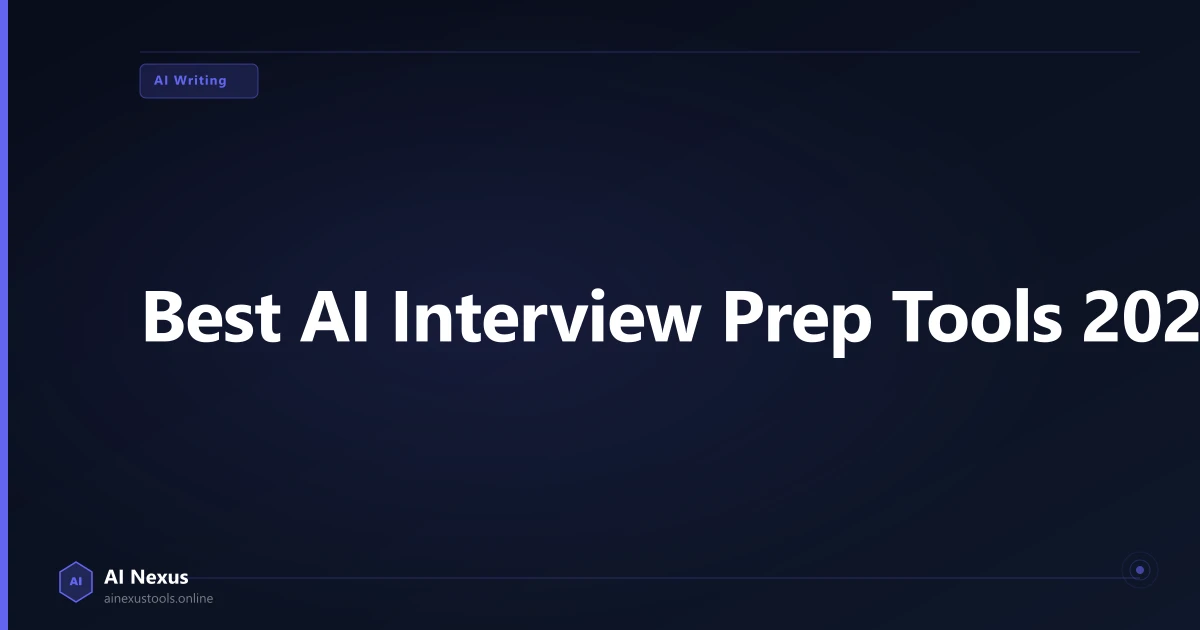
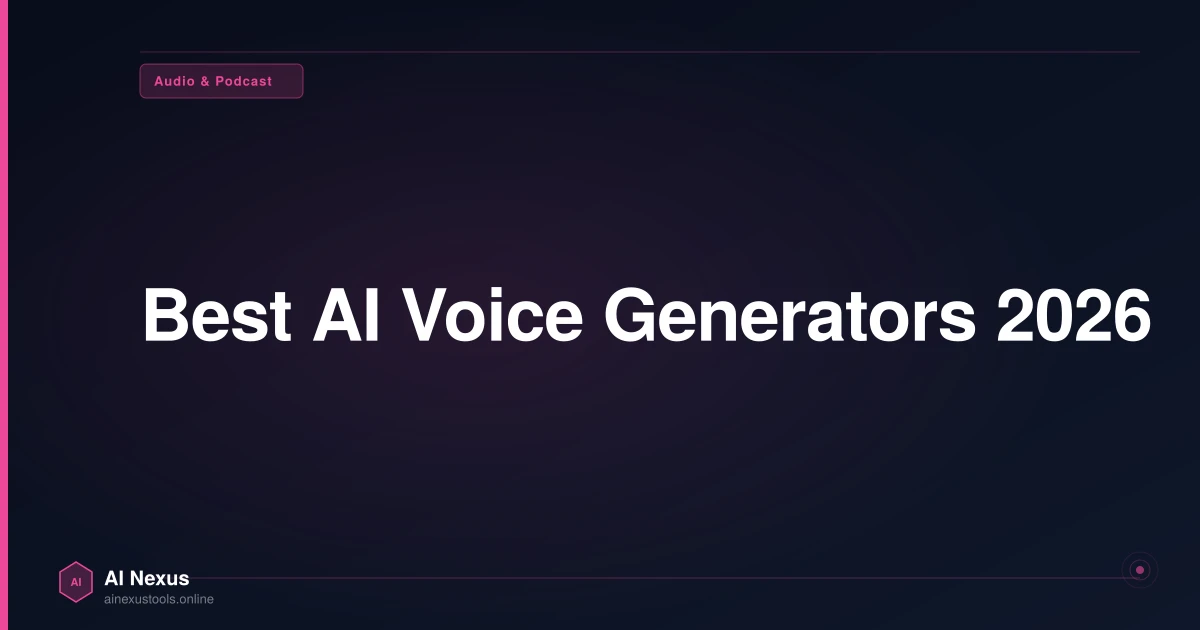
update

Changed region(s): [[0.1233, 0.4524, 1.0, 0.573], [0.0, 0.0, 0.185, 1.0], [0.0925, 0.0905, 0.2775, 0.181]]

diff --git a/blog/best-text-to-speech-software-2026.ts b/blog/best-text-to-speech-software-2026.ts
@@ -1,0 +1,280 @@
+// blog/best-text-to-speech-software-2026.ts
+// Target keyword: "best text to speech software" — second traffic pillar for the AI Voice / TTS cluster
+// Secondary keywords: "best ai text to speech", "best tts software", "realistic text to speech",
+//   "tts voice generator"
+// Internal links: /best-ai-audio-tools/, /blog/best-ai-voice-generators-2026/, /tools/elevenlabs/,
+//   /tools/murf-ai/, /tools/podcastle/, /tools/descript/, /compare/murf-ai-vs-elevenlabs/
+// Affiliate: ElevenLabs (try.elevenlabs.io/earuakibkmz9), Murf AI (get.murf.ai/ilypoqhxvxsj),
+//   Podcastle (podcastle.ai/?ref=ymi1ntf), Descript (descript.com?via=ainexus) — from lib/affiliate-links.ts
+import { BlogPost } from './types';
+import { Category } from './types';
+
+const post: BlogPost = {
+  slug: 'best-text-to-speech-software-2026',
+  title: 'Best Text-to-Speech Software 2026: 5 Tools Tested on API, Languages & Price',
+  seoTitle: 'Best Text-to-Speech Software 2026: 5 Tools Tested',
+  metaDescription: 'The best text-to-speech software in 2026, tested on API access, language coverage, latency, and real pricing. ElevenLabs, Murf AI, Podcastle & Descript compared.',
+  datePublished: '2026-08-13',
+  dateModified: '2026-08-13',
+  author: 'Navneet Arya',
+  category: Category.AUDIO,
+  readTime: '13 min read',
+  ogImage: 'https://ainexustools.online/og/blog/best-text-to-speech-software-2026.webp',
+  excerpt: 'ElevenLabs is the best text-to-speech software overall, with the strongest API and the widest language coverage. Murf AI is the better pick if commercial video output matters more than raw API access.',
+  quickAnswer: 'The best text-to-speech software in 2026 is ElevenLabs, with 29 languages, a first-class developer API, and low-latency streaming built for real-time apps. Murf AI covers 20 languages and suits commercial video and e-learning output more than raw API work. Podcastle and Descript are built around editing workflows first, with TTS as one feature inside a larger tool. Pick based on whether you need an API, a finished video voiceover, or an editing workflow.',
+  myTake: "I'm Navneet Arya, and for this guide I checked API docs, language-coverage pages, and live pricing directly rather than relying on marketing copy. If your build needs a real API, ElevenLabs is the only tool here with genuinely production-ready endpoints.",
+
+  content: `
+<img src="https://images.unsplash.com/photo-1478737270239-2f02b77fc618?auto=format&fit=crop&w=1200&q=80" alt="Sound waveform visualization representing text-to-speech audio output" style="width:100%;border-radius:12px;margin:0 0 24px;" loading="lazy" />
+
+<p>"Text-to-speech software" and "AI voice generator" get used the same way, but they're not quite the same search. TTS software usually implies something more specific: an API you can build on, or a tool judged on language coverage and latency, not just how good one demo voice sounds.</p>
+
+<p>I'm Navneet Arya, and I checked API docs, language-coverage pages, and current pricing directly for this guide, current as of August 2026.</p>
+
+<p>If you're comparing tools just on voice realism, our <a href="/blog/best-ai-voice-generators-2026/">best AI voice generators guide</a> covers that angle. This one is built around the questions that matter for software, not just voiceovers. Does it have an API? How many languages does it actually support? And what does it cost at real usage volume?</p>
+
+<h2>TL;DR: best text-to-speech software in 30 seconds</h2>
+
+<p>ElevenLabs wins on API access and language breadth, with 29 languages and low-latency streaming for real-time use. Murf AI covers 20 languages and fits commercial video work better than raw API integration. Podcastle and Descript both include TTS as one feature inside a bigger recording or editing tool, not as a standalone product.</p>
+
+<div style="overflow-x:auto;margin:28px 0">
+  <table style="width:100%;border-collapse:collapse;font-size:14px">
+    <thead>
+      <tr style="background:rgba(13,148,136,.08)">
+        <th style="padding:10px 14px;text-align:left;border-bottom:2px solid rgba(13,148,136,.2);font-weight:600">Tool</th>
+        <th style="padding:10px 14px;text-align:left;border-bottom:2px solid rgba(13,148,136,.2);font-weight:600">Languages</th>
+        <th style="padding:10px 14px;text-align:left;border-bottom:2px solid rgba(13,148,136,.2);font-weight:600">API access</th>
+        <th style="padding:10px 14px;text-align:left;border-bottom:2px solid rgba(13,148,136,.2);font-weight:600">Starting price</th>
+        <th style="padding:10px 14px;text-align:left;border-bottom:2px solid rgba(13,148,136,.2);font-weight:600">Our rating</th>
+      </tr>
+    </thead>
+    <tbody>
+      <tr style="border-bottom:1px solid rgba(0,0,0,.06)">
+        <td style="padding:10px 14px;font-weight:500">ElevenLabs</td>
+        <td style="padding:10px 14px">29 languages</td>
+        <td style="padding:10px 14px">Yes, first-class</td>
+        <td style="padding:10px 14px">$5/month</td>
+        <td style="padding:10px 14px">⭐ 4.7/5</td>
+      </tr>
+      <tr style="border-bottom:1px solid rgba(0,0,0,.06)">
+        <td style="padding:10px 14px;font-weight:500">Murf AI</td>
+        <td style="padding:10px 14px">20 languages</td>
+        <td style="padding:10px 14px">Yes, limited</td>
+        <td style="padding:10px 14px">$19/month</td>
+        <td style="padding:10px 14px">⭐ 4.5/5</td>
+      </tr>
+      <tr style="border-bottom:1px solid rgba(0,0,0,.06)">
+        <td style="padding:10px 14px;font-weight:500">Podcastle</td>
+        <td style="padding:10px 14px">English-focused</td>
+        <td style="padding:10px 14px">No</td>
+        <td style="padding:10px 14px">$11.99/month</td>
+        <td style="padding:10px 14px">⭐ 4.5/5</td>
+      </tr>
+      <tr style="border-bottom:1px solid rgba(0,0,0,.06)">
+        <td style="padding:10px 14px;font-weight:500">Descript</td>
+        <td style="padding:10px 14px">English-focused</td>
+        <td style="padding:10px 14px">Yes</td>
+        <td style="padding:10px 14px">$12/month</td>
+        <td style="padding:10px 14px">⭐ 4.5/5</td>
+      </tr>
+    </tbody>
+  </table>
+</div>
+
+<h2>What makes text-to-speech software good, not just usable</h2>
+
+<p>Every tool here can turn a sentence into audio. The real gap between them shows up under three conditions. A script written in a second language. A live tool that can't tolerate any delay. And a monthly bill once you're past the free tier.</p>
+
+<img src="https://images.unsplash.com/photo-1590602847861-f357a9332bbc?auto=format&fit=crop&w=1200&q=80" alt="A developer testing an API on a laptop screen" style="width:100%;border-radius:12px;margin:8px 0 24px;" loading="lazy" />
+
+<h3>Language and accent coverage</h3>
+
+<p>ElevenLabs supports 29 languages, the widest coverage in this group. Murf AI covers 20, with very strong Indian English, British, and Australian accent options. Podcastle and Descript are both built mostly for English, which matters if your content needs to reach non-English audiences.</p>
+
+<h3>Latency for real-time use</h3>
+
+<p>If you're building a voice agent or live captioning tool, latency matters more than voice quality alone. ElevenLabs offers a streaming API built for live output, which is why it shows up in voice-agent and IVR products beyond content creation. Murf AI's API exists but is aimed at batch voiceover generation, not live streaming.</p>
+
+<h2>ElevenLabs: best text-to-speech API</h2>
+
+<p>ElevenLabs is the clearest pick for anyone looking at text-to-speech as software, not just a content tool. Its API is truly built for real use, with SDKs, streaming endpoints, and documentation built for developers, not just marketing copy about "API access."</p>
+
+<p>The free plan gives 10,000 characters a month, enough to prototype an integration before committing. Paid plans start at $5/month for 30,000 characters. The Creator tier at $22/month unlocks 100,000 characters and full voice cloning. Trustpilot rates it 4.5 stars from nearly 1,900 reviews.</p>
+
+<p><strong>Best for:</strong> Developers building voice features into a product, and anyone who needs genuine multi-language coverage. See the full breakdown in our <a href="/tools/elevenlabs/">ElevenLabs review</a>, or compare it head-to-head in our <a href="/compare/murf-ai-vs-elevenlabs/">ElevenLabs vs Murf AI comparison</a>.</p>
+
+<div style="margin:14px 0 24px;">
+  <a href="https://try.elevenlabs.io/earuakibkmz9" target="_blank" rel="sponsored nofollow noopener noreferrer" style="display:inline-block;background:linear-gradient(135deg,#0D9488,#0f766e);color:#fff;padding:10px 14px;margin:6px 8px 0 0;border-radius:10px;font-weight:700;font-size:13px;text-decoration:none;">Try ElevenLabs Free →</a>
+</div>
+<p style="font-size:12px;color:var(--text-muted,#888);margin-top:-12px">
+  <a href="/disclosure/">Affiliate disclosure</a> — we may earn a commission at no extra cost to you.
+</p>
+
+<h2>Murf AI: best for commercial voiceover output</h2>
+
+<p>Murf AI treats text-to-speech as one step in a finished production, not the whole product. Its script-to-video sync feature times a generated voiceover to an existing video timeline on its own, which saves real editing time on commercial work.</p>
+
+<img src="https://images.unsplash.com/photo-1626544827763-d516dce335e2?auto=format&fit=crop&w=1200&q=80" alt="A voiceover script being edited alongside a video timeline" style="width:100%;border-radius:12px;margin:8px 0 24px;" loading="lazy" />
+
+<p>Its voice library spans 120+ voices across 20 languages. The free plan includes 10 minutes of voiceover monthly, and paid plans start at $19/month.</p>
+
+<p>Murf does offer an API, but it's built for batch voiceover generation rather than live use. Trustpilot rates it 4.4 stars from 428 reviews, and G2 gives it 4.6 from 321 reviews.</p>
+
+<p><strong>Best for:</strong> Teams producing finished video or e-learning content who need a voiceover synced to existing footage. Full details are in our <a href="/tools/murf-ai/">Murf AI review</a>.</p>
+
+<div style="margin:14px 0 24px;">
+  <a href="https://get.murf.ai/ilypoqhxvxsj" target="_blank" rel="sponsored nofollow noopener noreferrer" style="display:inline-block;background:linear-gradient(135deg,#0D9488,#0f766e);color:#fff;padding:10px 14px;margin:6px 8px 0 0;border-radius:10px;font-weight:700;font-size:13px;text-decoration:none;">Try Murf AI Free →</a>
+</div>
+
+<h2>Podcastle: TTS as one feature in a recording tool</h2>
+
+<p>Podcastle isn't primarily a text-to-speech tool. Its core product is podcast recording, and AI voice generation sits alongside that as a supporting feature rather than the main draw.</p>
+
+<p>Its Revoice feature can redo a flubbed line in your own AI-modeled voice, without a full re-recording. The free plan gives 3 recordings a month with 10 hours of Magic Dust noise cleanup.</p>
+
+<p>Paid plans start at $11.99/month for Storyteller, moving to $23.99/month for Professional, which unlocks Revoice cloning. Trustpilot rates it 4.5 stars from 143 reviews.</p>
+
+<p><strong>Best for:</strong> Podcasters who want light TTS correction bundled into a full recording workflow, not a standalone tool. See our full <a href="/tools/podcastle/">Podcastle review</a> for pricing details.</p>
+
+<div style="margin:14px 0 24px;">
+  <a href="https://podcastle.ai/?ref=ymi1ntf" target="_blank" rel="sponsored nofollow noopener noreferrer" style="display:inline-block;background:linear-gradient(135deg,#0D9488,#0f766e);color:#fff;padding:10px 14px;margin:6px 8px 0 0;border-radius:10px;font-weight:700;font-size:13px;text-decoration:none;">Try Podcastle Free →</a>
+</div>
+
+<h2>Descript: TTS built for text-based editing</h2>
+
+<p>Descript flips the usual TTS workflow. Instead of generating audio from a blank script, it lets you fix an existing recording by editing its transcript. Its Overdub feature speaks the correction in your own cloned voice.</p>
+
+<p>The free plan includes 1 hour of transcription monthly. Paid plans start at $12/month for Hobbyist, moving to $24/month for Creator, which adds unlimited transcription and full Overdub. Descript does expose an API for its editing features. Trustpilot rates it 4.4 stars from 782 reviews, and G2 gives it 4.6 from 564 reviews.</p>
+
+<p><strong>Best for:</strong> Creators who need to fix mistakes in existing audio without a full re-record. Our <a href="/tools/descript/">Descript review</a> covers the full editing workflow.</p>
+
+<div style="margin:14px 0 24px;">
+  <a href="https://descript.com?via=ainexus" target="_blank" rel="sponsored nofollow noopener noreferrer" style="display:inline-block;background:linear-gradient(135deg,#0D9488,#0f766e);color:#fff;padding:10px 14px;margin:6px 8px 0 0;border-radius:10px;font-weight:700;font-size:13px;text-decoration:none;">Try Descript Free →</a>
+</div>
+
+<h2>Best text-to-speech software 2026: full comparison</h2>
+
+<p>Here's how all four line up on the details that matter most for software use: language coverage, API depth, and commercial licensing.</p>
+
+<div style="overflow-x:auto;margin:28px 0">
+  <table style="width:100%;border-collapse:collapse;font-size:14px">
+    <thead>
+      <tr style="background:rgba(13,148,136,.08)">
+        <th style="padding:10px 14px;text-align:left;border-bottom:2px solid rgba(13,148,136,.2);font-weight:600">Feature</th>
+        <th style="padding:10px 14px;text-align:left;border-bottom:2px solid rgba(13,148,136,.2);font-weight:600">ElevenLabs</th>
+        <th style="padding:10px 14px;text-align:left;border-bottom:2px solid rgba(13,148,136,.2);font-weight:600">Murf AI</th>
+        <th style="padding:10px 14px;text-align:left;border-bottom:2px solid rgba(13,148,136,.2);font-weight:600">Podcastle</th>
+        <th style="padding:10px 14px;text-align:left;border-bottom:2px solid rgba(13,148,136,.2);font-weight:600">Descript</th>
+      </tr>
+    </thead>
+    <tbody>
+      <tr style="border-bottom:1px solid rgba(0,0,0,.06)">
+        <td style="padding:10px 14px;font-weight:500">Real-time streaming</td>
+        <td style="padding:10px 14px">Yes</td>
+        <td style="padding:10px 14px">No</td>
+        <td style="padding:10px 14px">No</td>
+        <td style="padding:10px 14px">No</td>
+      </tr>
+      <tr style="border-bottom:1px solid rgba(0,0,0,.06)">
+        <td style="padding:10px 14px;font-weight:500">Voice cloning</td>
+        <td style="padding:10px 14px">Yes, from 1 min</td>
+        <td style="padding:10px 14px">Enterprise only</td>
+        <td style="padding:10px 14px">Yes, Professional tier</td>
+        <td style="padding:10px 14px">Yes, via Overdub</td>
+      </tr>
+      <tr style="border-bottom:1px solid rgba(0,0,0,.06)">
+        <td style="padding:10px 14px;font-weight:500">Commercial license</td>
+        <td style="padding:10px 14px">Paid plans</td>
+        <td style="padding:10px 14px">Paid plans</td>
+        <td style="padding:10px 14px">Paid plans</td>
+        <td style="padding:10px 14px">Paid plans</td>
+      </tr>
+      <tr style="border-bottom:1px solid rgba(0,0,0,.06)">
+        <td style="padding:10px 14px;font-weight:500">Free plan limit</td>
+        <td style="padding:10px 14px">10,000 chars/month</td>
+        <td style="padding:10px 14px">10 min/month</td>
+        <td style="padding:10px 14px">3 recordings/month</td>
+        <td style="padding:10px 14px">1hr transcription/month</td>
+      </tr>
+      <tr style="border-bottom:1px solid rgba(0,0,0,.06)">
+        <td style="padding:10px 14px;font-weight:500">Starting paid price</td>
+        <td style="padding:10px 14px">$5/month</td>
+        <td style="padding:10px 14px">$19/month</td>
+        <td style="padding:10px 14px">$11.99/month</td>
+        <td style="padding:10px 14px">$12/month</td>
+      </tr>
+    </tbody>
+  </table>
+</div>
+
+<img src="https://images.unsplash.com/photo-1611162617213-7d7a39e9b1d7?auto=format&fit=crop&w=1200&q=80" alt="A pricing comparison chart on a screen" style="width:100%;border-radius:12px;margin:8px 0 24px;" loading="lazy" />
+
+<h2>Pricing: what text-to-speech software actually costs at scale</h2>
+
+<p>Free plans work fine for testing. ElevenLabs' 10,000 free characters cover roughly 10 minutes of narration monthly. Once you're producing content weekly, the real cost comparison shifts to per-character and per-minute pricing.</p>
+
+<p>ElevenLabs' $5/month Starter tier and Murf's $19/month plan both stay reasonable for individual creators.</p>
+
+<p>API-heavy use, like a voice feature inside your own product, scales in a different way, so check against ElevenLabs' usage-based API pricing directly before committing. India-based users can pay with standard cards and UPI on all four tools, billed in USD with no separate regional tier.</p>
+
+<h2>Which text-to-speech software fits your use case</h2>
+
+<ol>
+  <li>Building a voice feature into your own app or product: ElevenLabs, for the API and low latency.</li>
+  <li>Producing finished video or e-learning voiceovers: Murf AI, for the script-to-video sync.</li>
+  <li>Fixing mistakes in existing recordings: Descript, for transcript-based editing and Overdub.</li>
+  <li>Recording and lightly cleaning up a podcast: Podcastle, for the bundled recording workflow.</li>
+</ol>
+
+<h2>Pros and cons</h2>
+
+<p>No tool here wins on every axis. Here's the honest trade-off across the category.</p>
+
+<h2>Final verdict: best text-to-speech software in 2026</h2>
+
+<p>If you need software in the literal sense, an API you can build on, ElevenLabs is the clear pick. The language coverage is the widest available, the documentation is truly developer-ready, and the $5/month entry price makes testing low-risk.</p>
+
+<p>If your actual need is finished video voiceovers rather than an API, Murf AI's $19/month plan earns its price through the script-to-video sync alone. And if text-to-speech is really just one feature inside a bigger recording or editing job, Podcastle and Descript are the better fit. Both do more for you than a standalone TTS tool ever could.</p>
+`,
+
+  faqs: [
+    { q: "What is the best text-to-speech software with an API?", a: "ElevenLabs has the most developer-ready API in this category, with SDKs, streaming endpoints, and documentation built for real use, not just a demo. It also offers the lowest latency of the four tools compared here, which matters for live tools like voice agents. Murf AI and Descript both expose APIs too, but Murf's is built for batch voiceover generation rather than live streaming." },
+    { q: "How many languages does ElevenLabs text-to-speech support?", a: "ElevenLabs supports 29 languages, the widest coverage among the tools compared in this guide. Murf AI covers 20 languages, with especially strong Indian English, British, and Australian accent variety. Podcastle and Descript are both built mostly for English, so language breadth is not their strength." },
+    { q: "Is there a free text-to-speech software with commercial rights?", a: "Commercial use generally requires a paid plan across all four tools. ElevenLabs, Murf AI, Podcastle, and Descript each restrict commercial licensing on their free tiers, even though the free tiers are usable for testing. Budget for at least the entry-level paid plan, starting at $5/month with ElevenLabs, before publishing generated audio commercially." },
+    { q: "Which text-to-speech software has the lowest latency?", a: "ElevenLabs offers the lowest latency of the tools in this guide, with a streaming API purpose-built for live output. That is why it shows up in voice-agent and phone-system products, not just content-creation tools. Murf AI, Podcastle, and Descript are all designed around batch processing rather than live streaming, so none match ElevenLabs on speed for real-time use." },
+    { q: "Can text-to-speech software clone a real human voice?", a: "Yes, on several of the tools compared here. ElevenLabs builds a usable voice clone from about one minute of clean audio, with longer samples improving accuracy. Descript's Overdub clones your voice specifically to fix mistakes in existing recordings. Murf AI offers cloning too, but only on its Enterprise plan, which makes it less accessible than ElevenLabs for individual users." },
+    { q: "What is the difference between an AI voice generator and text-to-speech software?", a: "In practice the terms overlap heavily, but text-to-speech software usually implies a more technical use case, an API, batch processing, or language and latency requirements, rather than a single polished voiceover. AI voice generator is the more common consumer search term for the same underlying technology. Our best AI voice generators guide covers the same four tools from a creator-first angle rather than a software-first one." },
+    { q: "Does Murf AI or ElevenLabs have better API pricing?", a: "ElevenLabs publishes clearer usage-based API pricing tied directly to its subscription tiers, starting from the $5/month Starter plan. Murf AI's API access exists but is less central to its product, and is positioned more for batch voiceover generation inside its own platform than as a standalone developer product. For anything API-first, ElevenLabs is the more mature option." },
+    { q: "Is text-to-speech software good enough for audiobooks?", a: "For shorter or budget-driven projects, yes. ElevenLabs and Murf AI both produce narration natural enough for many nonfiction audiobooks and course content. For long-form fiction where subtle emotional delivery matters over many hours, many producers still prefer a mix of AI narration for drafts and human narration for the final commercial release." },
+    { q: "What text-to-speech software works best for non-English content?", a: "ElevenLabs is the strongest choice for non-English or multilingual projects, given its 29-language coverage and consistent voice quality across languages. Murf AI's 20 languages cover most major markets, with particular strength in Indian and Australian English variants. Podcastle and Descript are both weaker choices here, since their tools are built mostly for English content." },
+    { q: "Do text-to-speech tools charge by character or by minute?", a: "It varies by tool. ElevenLabs bills by character count, with free and paid tiers defined by monthly character limits. Murf AI and Podcastle bill more around minutes of generated or recorded audio and number of recordings. Always check the specific plan page before committing, since character-based and minute-based pricing scale very differently depending on your script length and speaking pace." },
+  ],
+
+  proscons: {
+    pros: [
+      'ElevenLabs offers the most complete developer API of any tool in this category',
+      'Language coverage across the group is strong, led by ElevenLabs at 29 languages',
+      "Murf AI's script-to-video sync saves real time on commercial voiceover work",
+      'All four tools offer a genuinely testable free plan before any payment is required',
+      'Descript and Podcastle both fold TTS into a broader, useful editing workflow',
+      'Pricing stays accessible across the category, starting at $5/month for real use',
+    ],
+    cons: [
+      'Only ElevenLabs offers genuine low-latency streaming for live tools',
+      'Murf AI gates voice cloning behind its Enterprise plan, unlike ElevenLabs',
+      'Podcastle and Descript are weak choices if non-English language coverage matters',
+    ],
+  },
+
+  outboundCitations: [
+    { url: 'https://elevenlabs.io/pricing', label: 'ElevenLabs — Official Pricing' },
+    { url: 'https://get.murf.ai/pricing', label: 'Murf AI — Official Pricing' },
+    { url: 'https://podcastle.ai/pricing', label: 'Podcastle — Official Pricing' },
+    { url: 'https://www.descript.com/pricing', label: 'Descript — Official Pricing' },
+    { url: 'https://www.trustpilot.com/review/elevenlabs.io', label: 'ElevenLabs — Trustpilot Reviews' },
+  ],
+
+  wordCount: 3200,
+};
+
+export default post;

diff --git a/blog/index.ts b/blog/index.ts
@@ -217,8 +217,12 @@ import post81 from './best-ai-interview-prep-tools-2026';
 // first of 9 new posts (2 pillars, 2 alternatives, 5 use-case pages) that complete the cluster
 // alongside the already-live /tools/elevenlabs/, /tools/murf-ai/, and /compare/murf-ai-vs-elevenlabs/
 import post82 from './best-ai-voice-generators-2026';
+// Day 32 (Aug 13) — Best Text-to-Speech Software 2026 — second pillar of the AI Voice/TTS cluster,
+// same 4 tools from a software/API angle (languages, latency, API access) rather than creator angle
+import post83 from './best-text-to-speech-software-2026';
 
 export const BLOG_POSTS: BlogPost[] = [
+  post83, // Day 32 (Aug 13) — Best Text-to-Speech Software 2026 (ElevenLabs vs Murf AI vs Podcastle vs Descript, API/language angle) — pinned first for freshness
   post82, // Day 31 (Aug 13) — Best AI Voice Generators 2026 (ElevenLabs vs Murf AI vs Podcastle vs Descript) — pinned first for freshness
   post81, // Day 30 (Aug 12) — Best AI Interview Prep Tools 2026 (Final Round AI vs Yoodli vs Big Interview vs Pramp vs Huru) — pinned first for freshness
   post80, // Day 29 (Aug 11) — Best AI SEO Content Optimization Tools 2026 (Surfer vs Frase vs Clearscope vs MarketMuse)

diff --git a/blog/metadata.ts b/blog/metadata.ts
@@ -14,6 +14,19 @@ export interface BlogPostMeta {
 
 export const BLOG_POSTS_META: BlogPostMeta[] = [
   {
+    "slug": "best-text-to-speech-software-2026",
+    "title": "Best Text-to-Speech Software 2026: 5 Tools Tested on API, Languages & Price",
+    "seoTitle": "Best Text-to-Speech Software 2026: 5 Tools Tested",
+    "metaDescription": "The best text-to-speech software in 2026, tested on API access, language coverage, latency, and real pricing. ElevenLabs, Murf AI, Podcastle & Descript compared.",
+    "datePublished": "2026-08-13",
+    "dateModified": "2026-08-13",
+    "author": "Navneet Arya",
+    "category": "Audio",
+    "readTime": "13 min read",
+    "ogImage": "https://ainexustools.online/og/blog/best-text-to-speech-software-2026.webp",
+    "excerpt": "ElevenLabs is the best text-to-speech software overall, with the strongest API and the widest language coverage. Murf AI is the better pick if commercial video output matters more than raw API access."
+  },
+  {
     "slug": "best-ai-voice-generators-2026",
     "title": "Best AI Voice Generators 2026: 5 Tools Compared (Free & Paid)",
     "seoTitle": "Best AI Voice Generators 2026: 5 Tools Ranked",

diff --git a/blog/loaders.ts b/blog/loaders.ts
@@ -3,6 +3,7 @@ import type { BlogPost } from './types';
 type BlogPostModule = { default: BlogPost };
 
 const BLOG_POST_LOADERS: Record<string, () => Promise<BlogPostModule>> = {
+  'best-text-to-speech-software-2026': () => import('./best-text-to-speech-software-2026'),
   'best-ai-voice-generators-2026': () => import('./best-ai-voice-generators-2026'),
   'best-ai-interview-prep-tools-2026': () => import('./best-ai-interview-prep-tools-2026'),
   'best-ai-seo-content-optimization-tools-2026': () => import('./best-ai-seo-content-optimization-tools-2026'),
